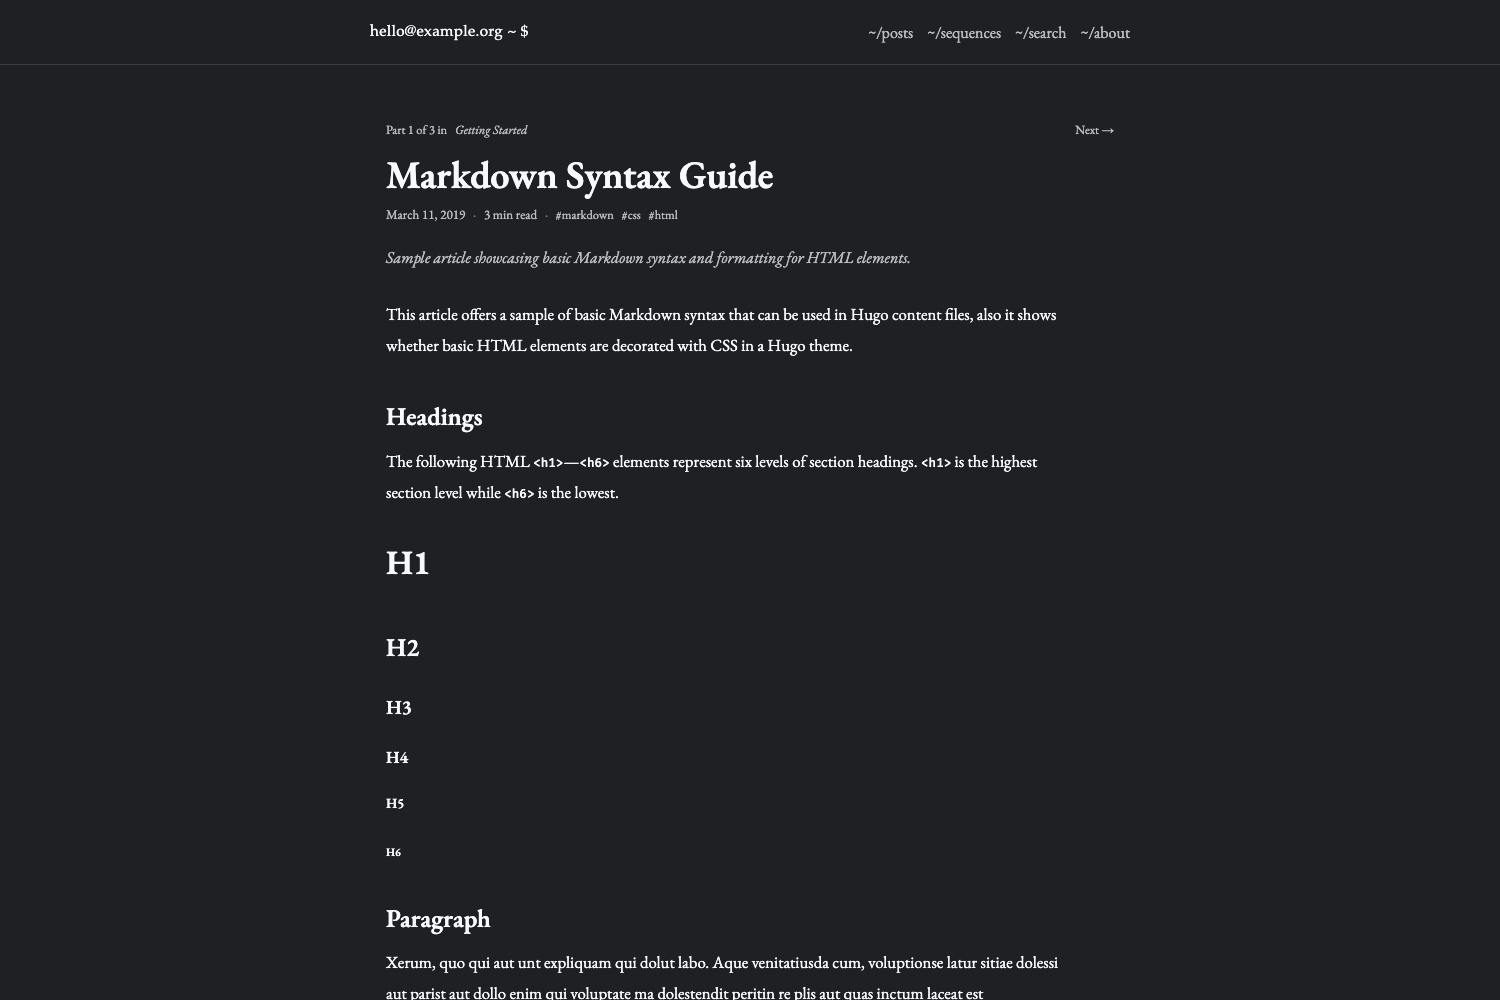
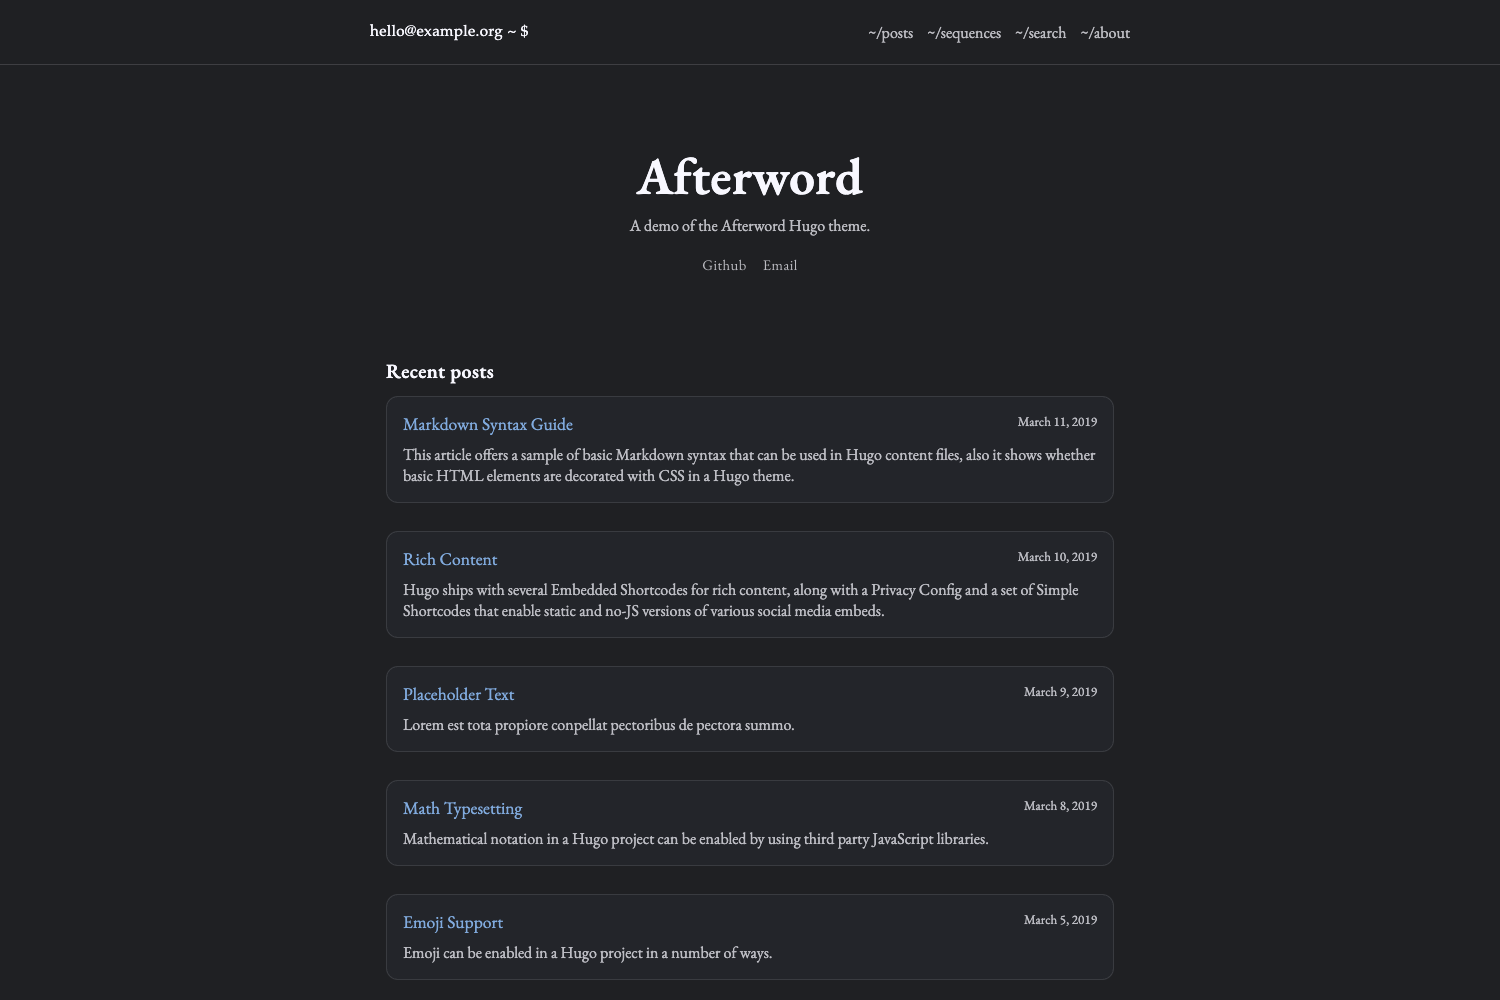
Update screenshots for the new home page
The thumbnail on the themes site now shows the home page with recent
posts, and the other shots pick up the rename and the even card
spacing.

diff --git a/README.md b/README.md
@@ -9,7 +9,7 @@ A reading-focused Hugo theme for personal essays and notes, with a serif reading
 
 See it in use at [a7med7x7.github.io](https://a7med7x7.github.io/).
 
-![Dark mode post](https://raw.githubusercontent.com/A7med7x7/hugo-theme-afterword/main/images/screenshot.png)
+![Home page in dark mode](https://raw.githubusercontent.com/A7med7x7/hugo-theme-afterword/main/images/screenshot.png)
 
 | Light mode | Sequences |
 | --- | --- |
